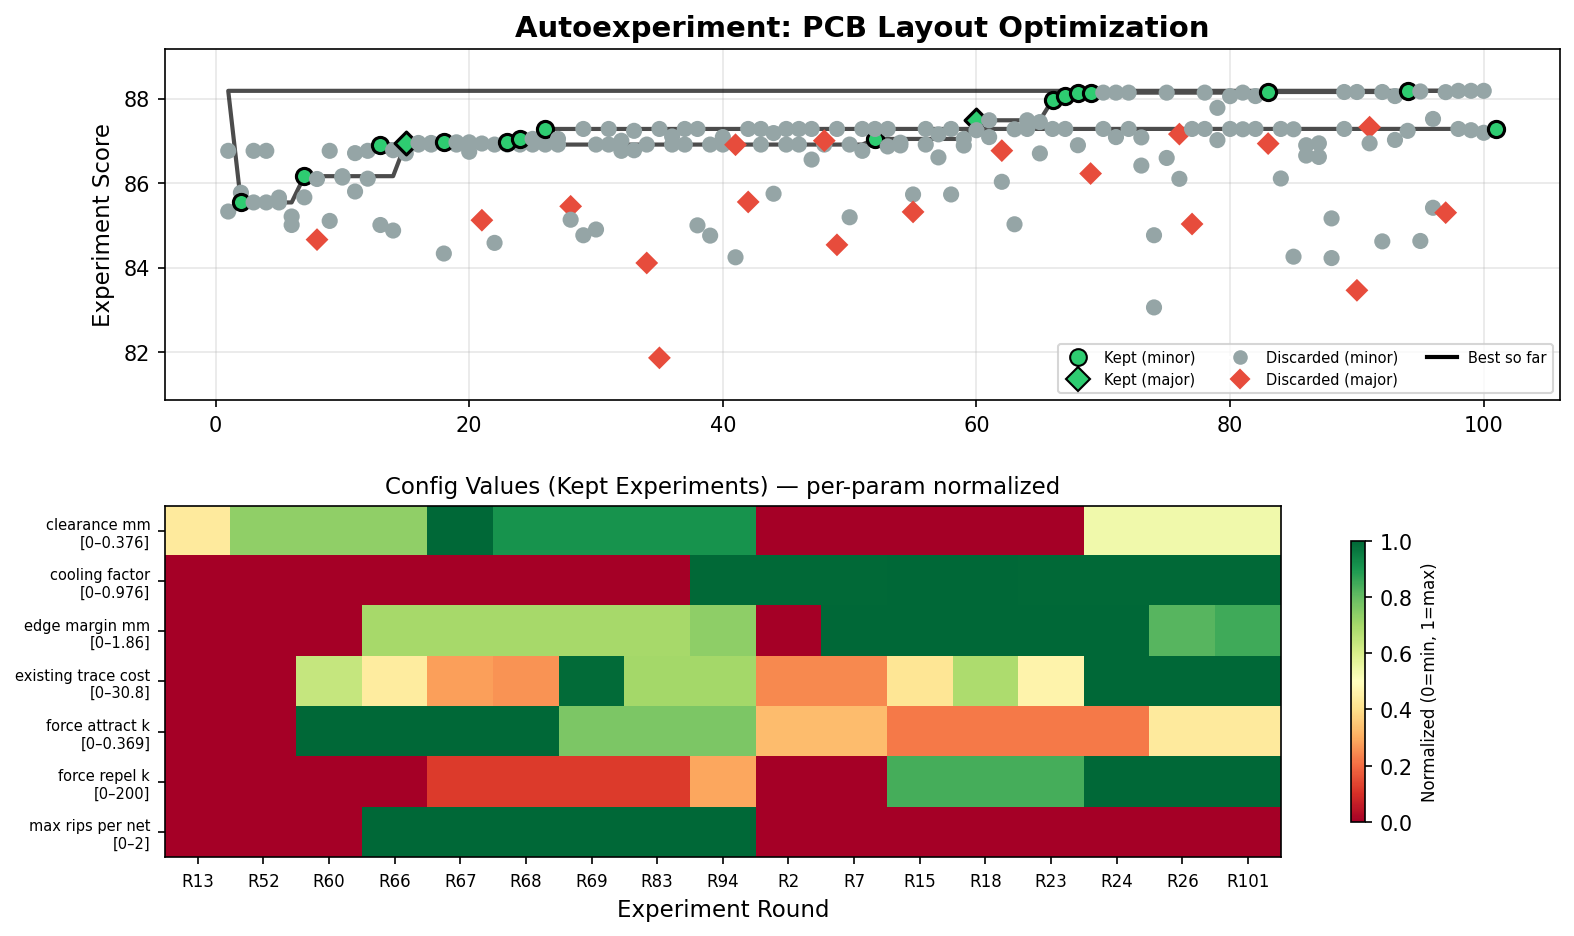
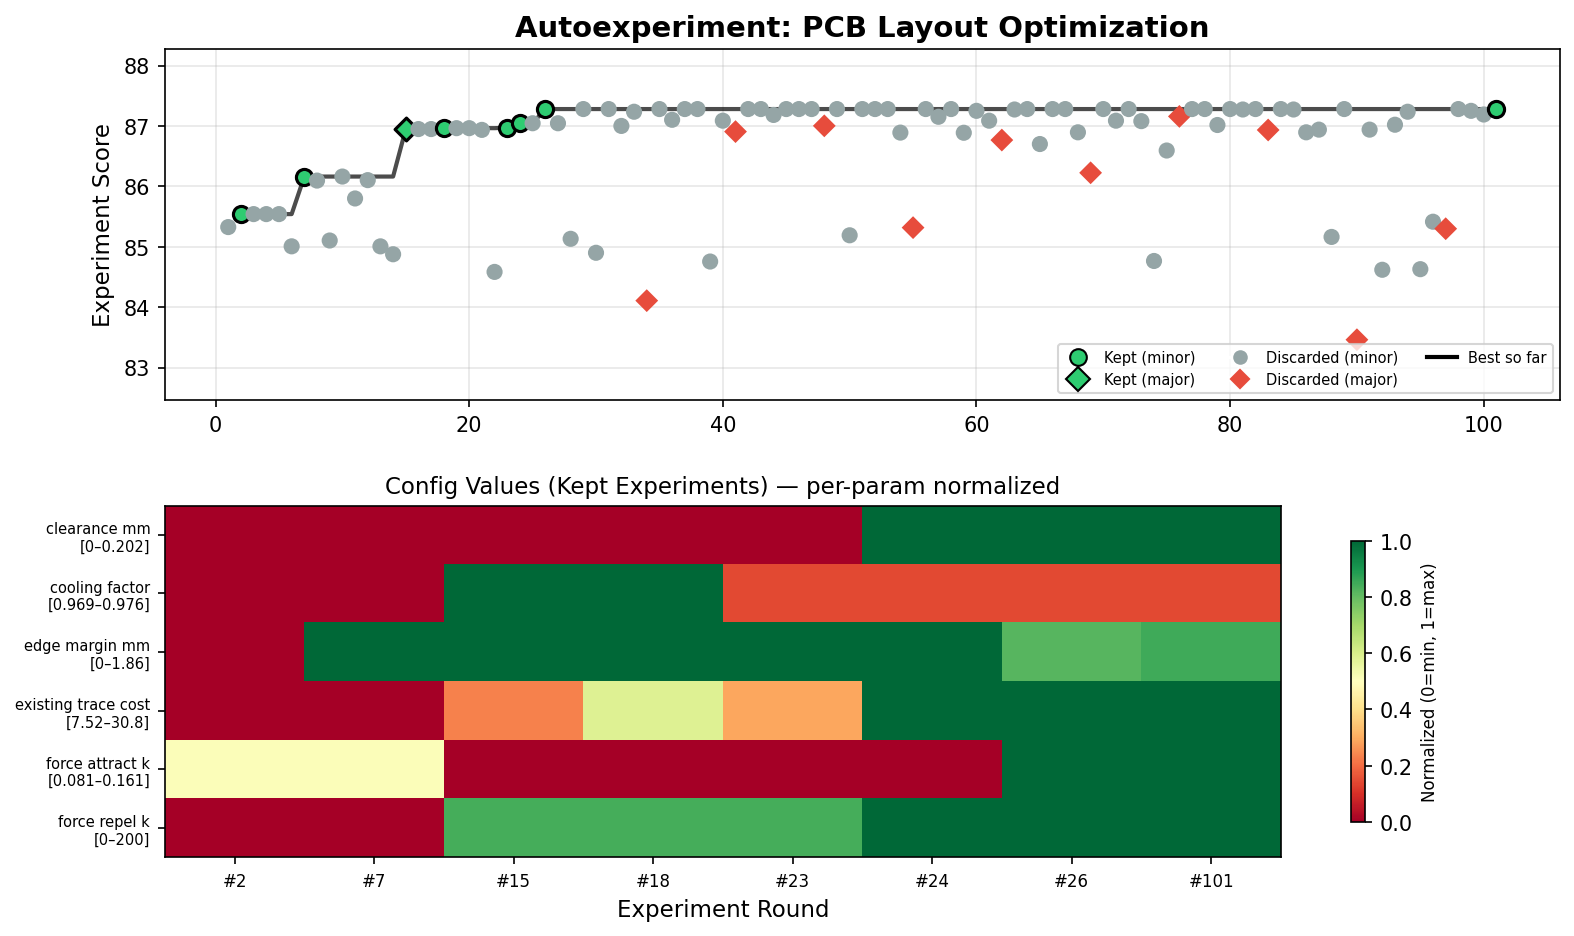
Fix plot x-axis, add PCB progress GIF, purge duplicate data
- Purge overlapping experiment runs (201→101 entries)
- Fix heatmap labels to use sequential index instead of round_num
- Add per-round PCB snapshot + GIF assembly to autoexperiment.py
- Add --no-render flag to skip rendering
- Link progress GIF in README

diff --git a/.claude/skills/kicad-helper/scripts/autoexperiment.py b/.claude/skills/kicad-helper/scripts/autoexperiment.py
@@ -17,11 +17,14 @@ Usage:
 from __future__ import annotations
 import argparse
 import copy
+import glob
 import json
 import os
 import random
 import shutil
+import subprocess
 import sys
+import tempfile
 import time
 from dataclasses import asdict, dataclass, field
 from pathlib import Path
@@ -138,6 +141,47 @@ def config_delta(base: dict, candidate: dict) -> dict:
     return delta
 
 
+def snapshot_pcb(pcb_path: str, output_png: str):
+    """Export a quick PNG snapshot of the PCB for progress GIF."""
+    try:
+        # Use kicad-cli SVG export then convert — same approach as render_pcb.py
+        with tempfile.NamedTemporaryFile(suffix=".svg", delete=False) as tmp:
+            svg_path = tmp.name
+        subprocess.run([
+            "kicad-cli", "pcb", "export", "svg",
+            "--layers", "F.Cu,B.Cu,F.SilkS,Edge.Cuts",
+            "--mode-single", "--fit-page-to-board",
+            "--exclude-drawing-sheet", "--drill-shape-opt", "2",
+            "-o", svg_path, pcb_path,
+        ], capture_output=True, check=True)
+        subprocess.run([
+            "magick", "-density", "150", svg_path,
+            "-resize", "800x800", output_png,
+        ], capture_output=True, check=True)
+        os.remove(svg_path)
+    except (subprocess.CalledProcessError, FileNotFoundError):
+        pass  # non-fatal — skip snapshot if tools missing
+
+
+def assemble_gif(frames_dir: Path, output_path: str, delay_cs: int = 50):
+    """Stitch numbered PNG frames into an animated GIF using ImageMagick."""
+    frames = sorted(glob.glob(str(frames_dir / "frame_*.png")))
+    if len(frames) < 2:
+        return
+    # Hold last frame longer
+    cmd = [
+        "magick", "-delay", str(delay_cs), "-loop", "0",
+    ]
+    cmd.extend(frames[:-1])
+    cmd.extend(["-delay", "200", frames[-1]])
+    cmd.extend(["-layers", "Optimize", output_path])
+    try:
+        subprocess.run(cmd, capture_output=True, check=True)
+        print(f"  GIF saved: {output_path} ({len(frames)} frames)")
+    except (subprocess.CalledProcessError, FileNotFoundError) as e:
+        print(f"  GIF assembly failed: {e}", file=sys.stderr)
+
+
 def run_experiment(pcb_path: str, work_dir: Path, cfg: dict,
                    seed: int, quiet: bool = True) -> tuple[ExperimentScore, float]:
     """Run one full pipeline experiment. Returns (score, duration_seconds)."""
@@ -189,6 +233,8 @@ def main():
                         help="Suppress pipeline output (default: on)")
     parser.add_argument("--verbose", "-v", action="store_true",
                         help="Show pipeline output")
+    parser.add_argument("--no-render", action="store_true",
+                        help="Skip PCB snapshot rendering (saves time)")
     args = parser.parse_args()
 
     if args.verbose:
@@ -205,6 +251,9 @@ def main():
     work_dir.mkdir(exist_ok=True)
     best_dir = work_dir / "best"
     best_dir.mkdir(exist_ok=True)
+    frames_dir = work_dir / "frames"
+    if not args.no_render:
+        frames_dir.mkdir(exist_ok=True)
 
     output_path = args.output or str(Path(args.pcb).with_suffix('')) + "_best.kicad_pcb"
     log_path = work_dir / args.log
@@ -298,6 +347,16 @@ def main():
 
         with open(log_path, 'a') as f:
             f.write(json.dumps(asdict(exp), default=str) + '\n')
+
+        # Snapshot PCB for progress GIF
+        if not args.no_render:
+            frame_png = str(frames_dir / f"frame_{round_num:04d}.png")
+            snapshot_pcb(str(work_dir / "experiment.kicad_pcb"), frame_png)
+
+    # Assemble progress GIF from frames
+    if not args.no_render:
+        gif_path = str(work_dir / "progress.gif")
+        assemble_gif(frames_dir, gif_path)
 
     # Copy best result to output
     best_pcb = str(best_dir / "best.kicad_pcb")

diff --git a/.claude/skills/kicad-helper/scripts/plot_experiments.py b/.claude/skills/kicad-helper/scripts/plot_experiments.py
@@ -23,7 +23,7 @@ def load_experiments(path):
 
 
 def plot_experiments(experiments, output_path):
-    rounds = [e["round_num"] for e in experiments]
+    rounds = list(range(1, len(experiments) + 1))
     scores = [e["score"] for e in experiments]
     modes = [e["mode"] for e in experiments]
     kept = [e["kept"] for e in experiments]
@@ -90,10 +90,12 @@ def plot_experiments(experiments, output_path):
         if all_keys:
             data = []
             labels = []
-            for e in kept_exps:
+            for idx, e in enumerate(kept_exps):
                 row = [e["config_delta"].get(k, 0) for k in all_keys]
                 data.append(row)
-                labels.append(f"R{e['round_num']}")
+                # Use sequential kept-index since round_num restarts across runs
+                kept_idx = next(i for i, exp in enumerate(experiments) if exp is e) + 1
+                labels.append(f"#{kept_idx}")
 
             ax2.set_title("Config Values (Kept Experiments) — per-param normalized", fontsize=11)
             if len(data) > 0 and len(data[0]) > 0:

diff --git a/README.md b/README.md
@@ -81,6 +81,10 @@ python3 plot_experiments.py ../../../../.experiments/experiments.jsonl
 
 ![Experiment Results](experiments_dashboard.png)
 
+### Layout Progress
+
+![Layout Progress GIF](.experiments/progress.gif)
+
 ## KiCad Helper Scripts
 
 Automation scripts using the KiCad 9 `pcbnew` Python API:
